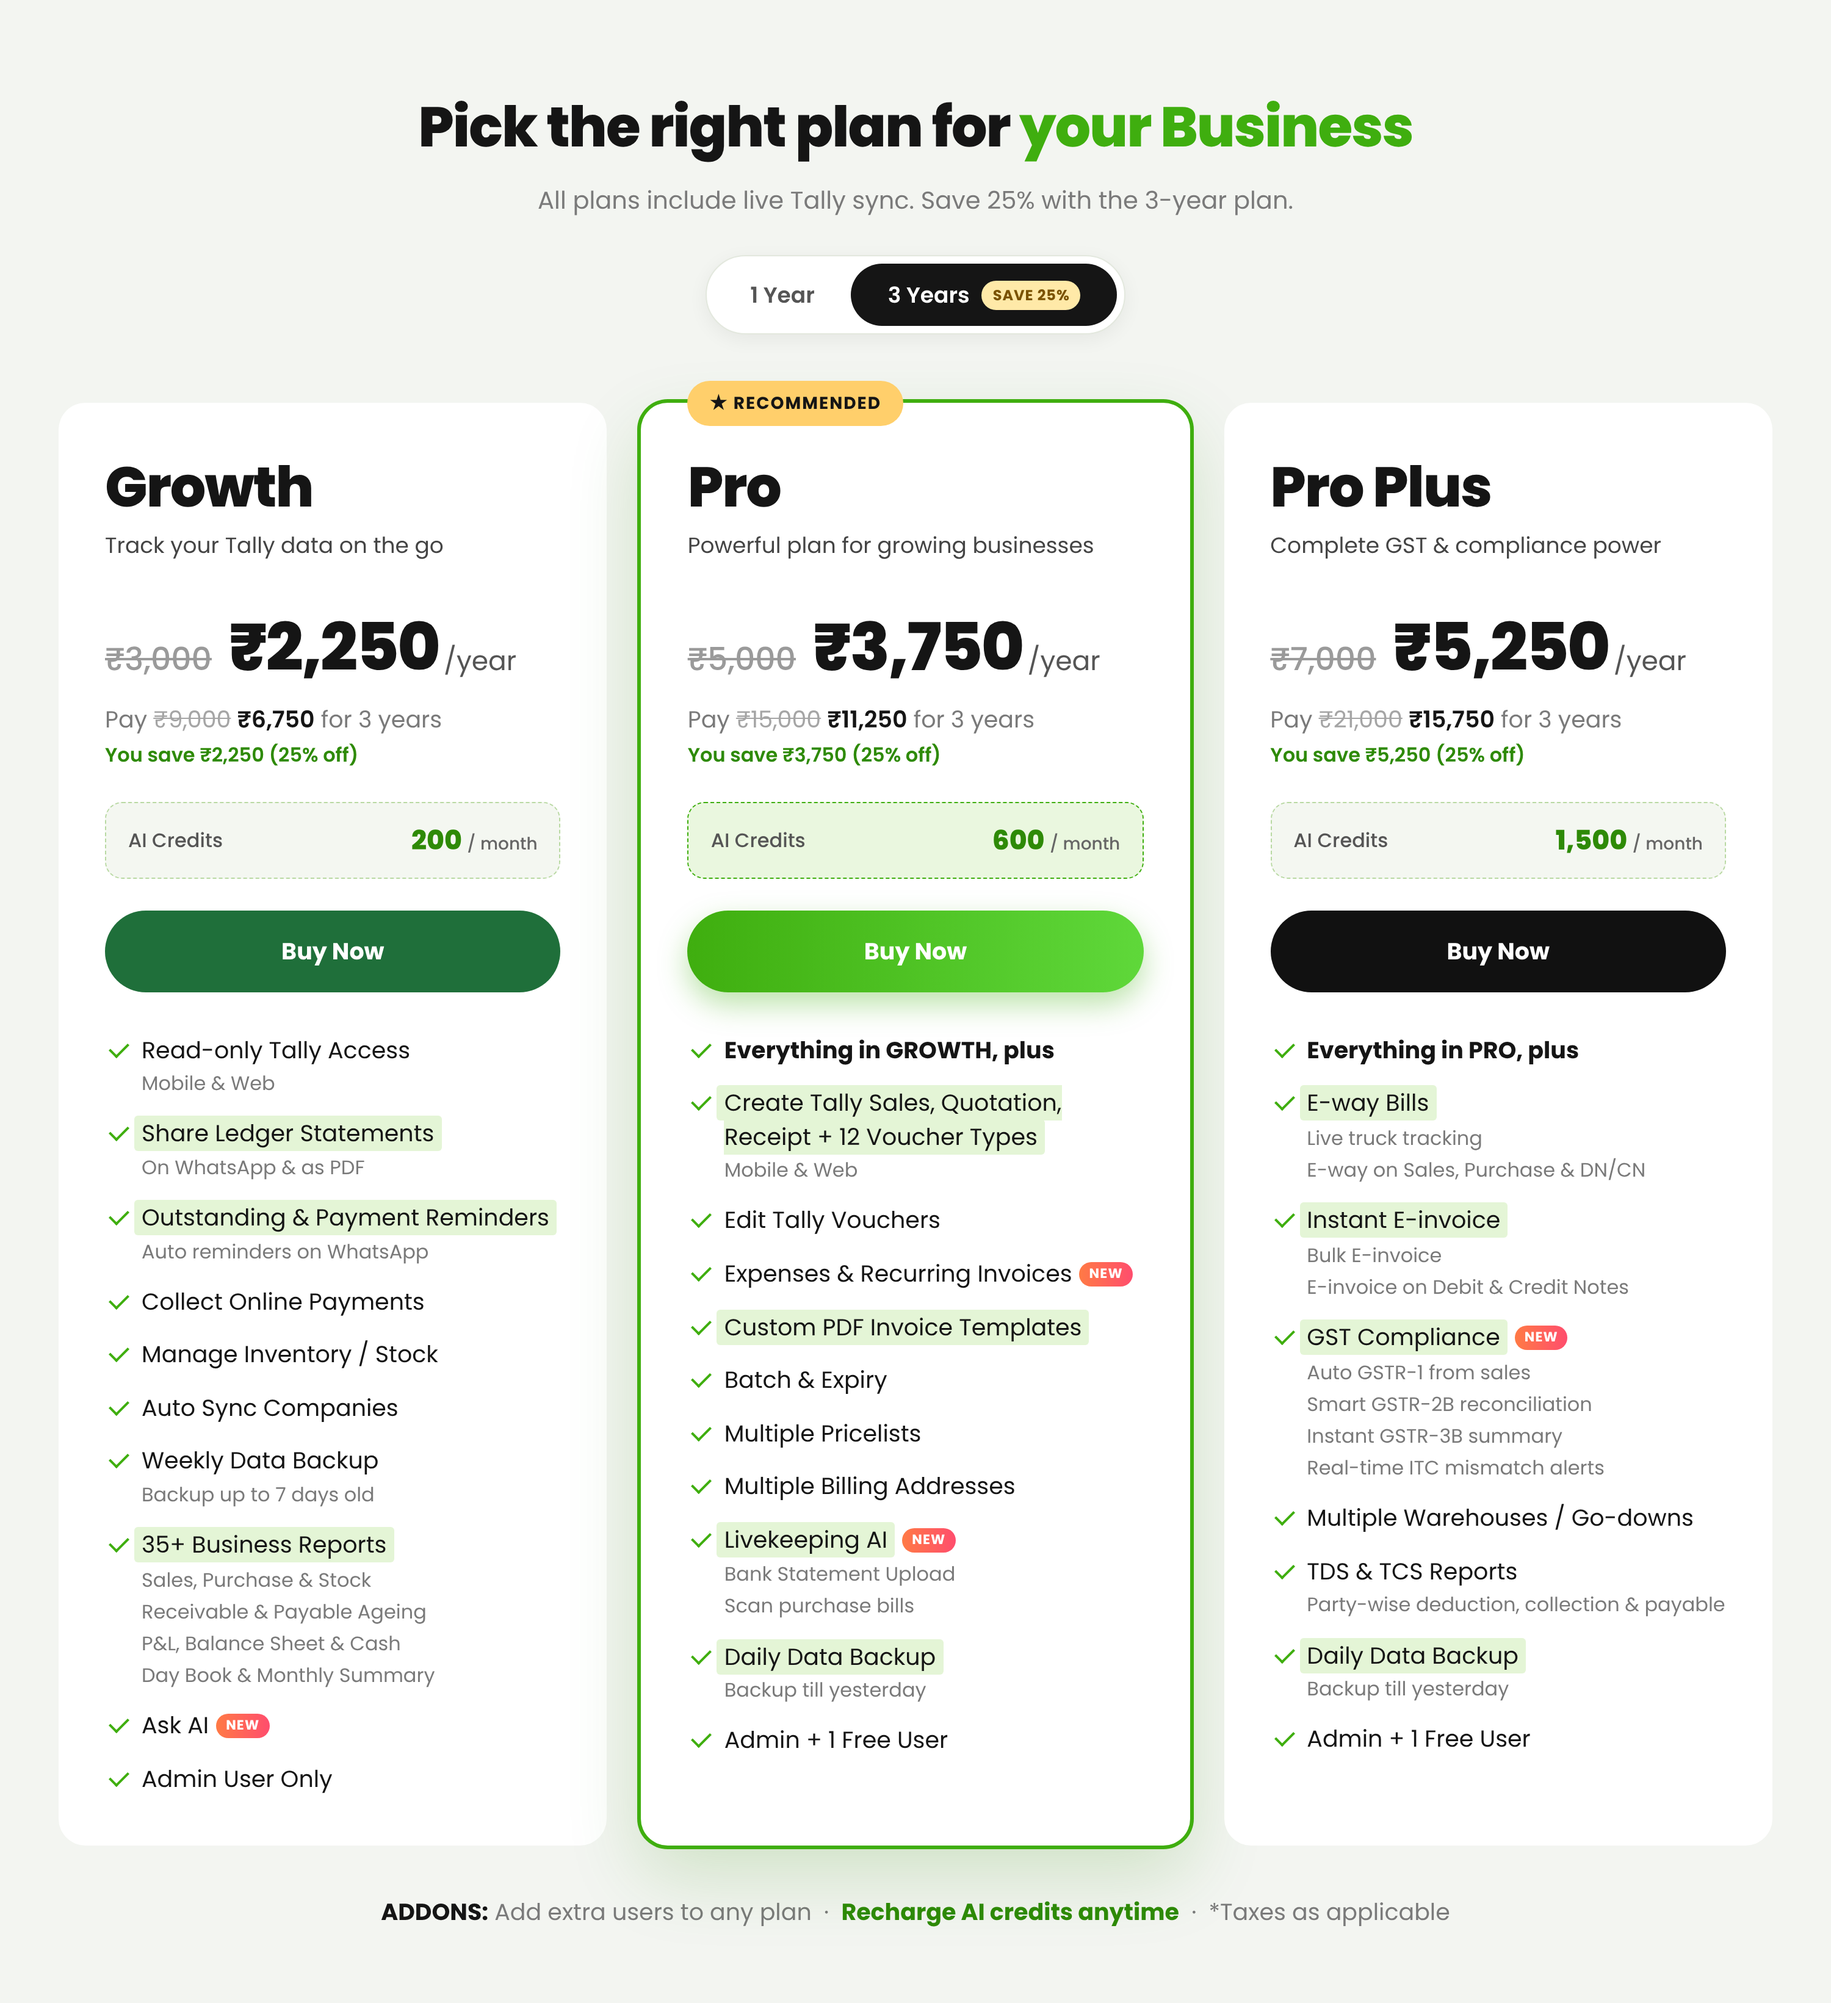
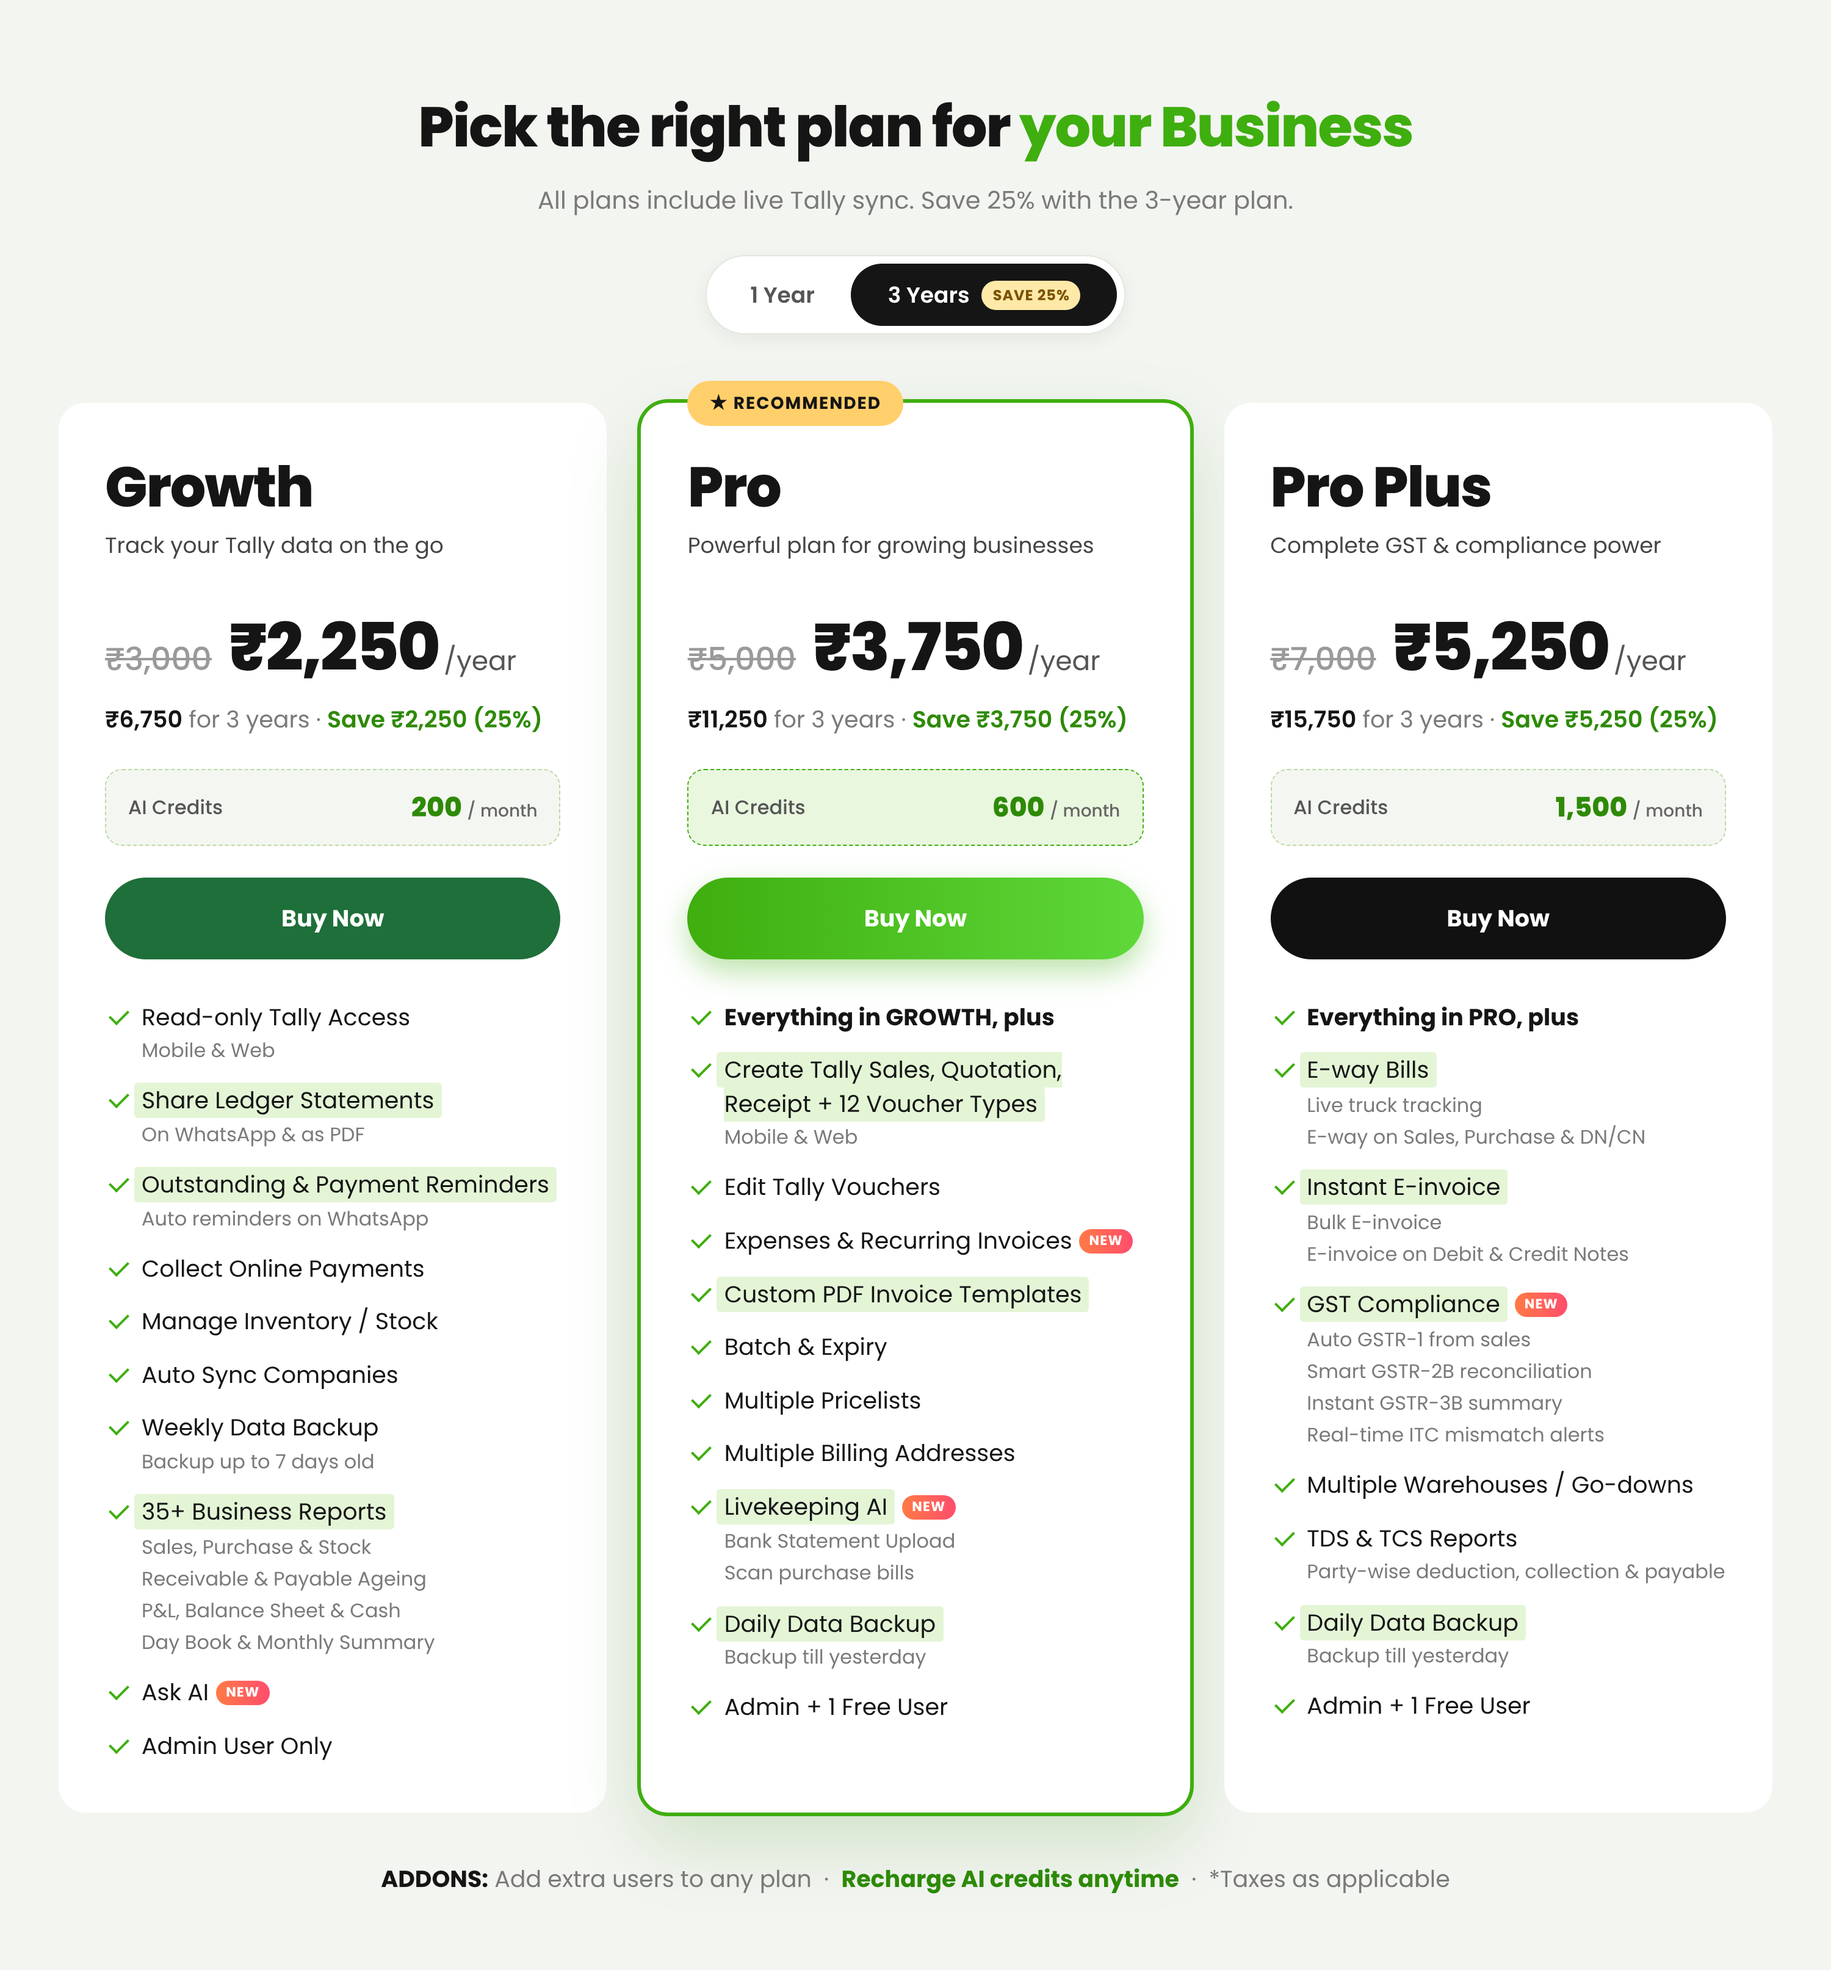
Pricing cards: price block in two rows
Claude-Session: https://claude.ai/code/session_01TUFe6273V25gsCzznixesV

diff --git a/livekeeping-pricing/cards.html b/livekeeping-pricing/cards.html
@@ -48,6 +48,7 @@
   .pay { font-size: 19px; color: var(--muted); margin-top: 4px; white-space: nowrap; }
   .pay s { color: #a5a5a5; }
   .pay b { color: var(--text); font-weight: 600; }
+  .pay .sv { color: var(--green-dark); font-weight: 600; }
   .save { display: inline-block; margin-top: 30px; background: #ffe9a8; color: #7a5200; font-size: 13px; font-weight: 700; letter-spacing: .6px; padding: 4px 10px; border-radius: 20px; }
 
   .credits {
@@ -136,8 +137,7 @@
       <div class="tag">Track your Tally data on the go</div>
       <div class="p3">
         <div class="price"><s>₹3,000</s><b>₹2,250</b><span>/year</span></div>
-        <div class="pay">Pay <s>₹9,000</s> <b>₹6,750</b> for 3 years</div>
-        <div class="off25">You save ₹2,250 (25% off)</div>
+        <div class="pay"><b>₹6,750</b> for 3 years · <span class="sv">Save ₹2,250 (25%)</span></div>
       </div>
       <div class="p1">
         <div class="price"><b>₹3,000</b><span>/year</span></div>
@@ -166,8 +166,7 @@
       <div class="tag">Powerful plan for growing businesses</div>
       <div class="p3">
         <div class="price"><s>₹5,000</s><b>₹3,750</b><span>/year</span></div>
-        <div class="pay">Pay <s>₹15,000</s> <b>₹11,250</b> for 3 years</div>
-        <div class="off25">You save ₹3,750 (25% off)</div>
+        <div class="pay"><b>₹11,250</b> for 3 years · <span class="sv">Save ₹3,750 (25%)</span></div>
       </div>
       <div class="p1">
         <div class="price"><b>₹5,000</b><span>/year</span></div>
@@ -196,8 +195,7 @@
       <div class="tag">Complete GST &amp; compliance power</div>
       <div class="p3">
         <div class="price"><s>₹7,000</s><b>₹5,250</b><span>/year</span></div>
-        <div class="pay">Pay <s>₹21,000</s> <b>₹15,750</b> for 3 years</div>
-        <div class="off25">You save ₹5,250 (25% off)</div>
+        <div class="pay"><b>₹15,750</b> for 3 years · <span class="sv">Save ₹5,250 (25%)</span></div>
       </div>
       <div class="p1">
         <div class="price"><b>₹7,000</b><span>/year</span></div>
